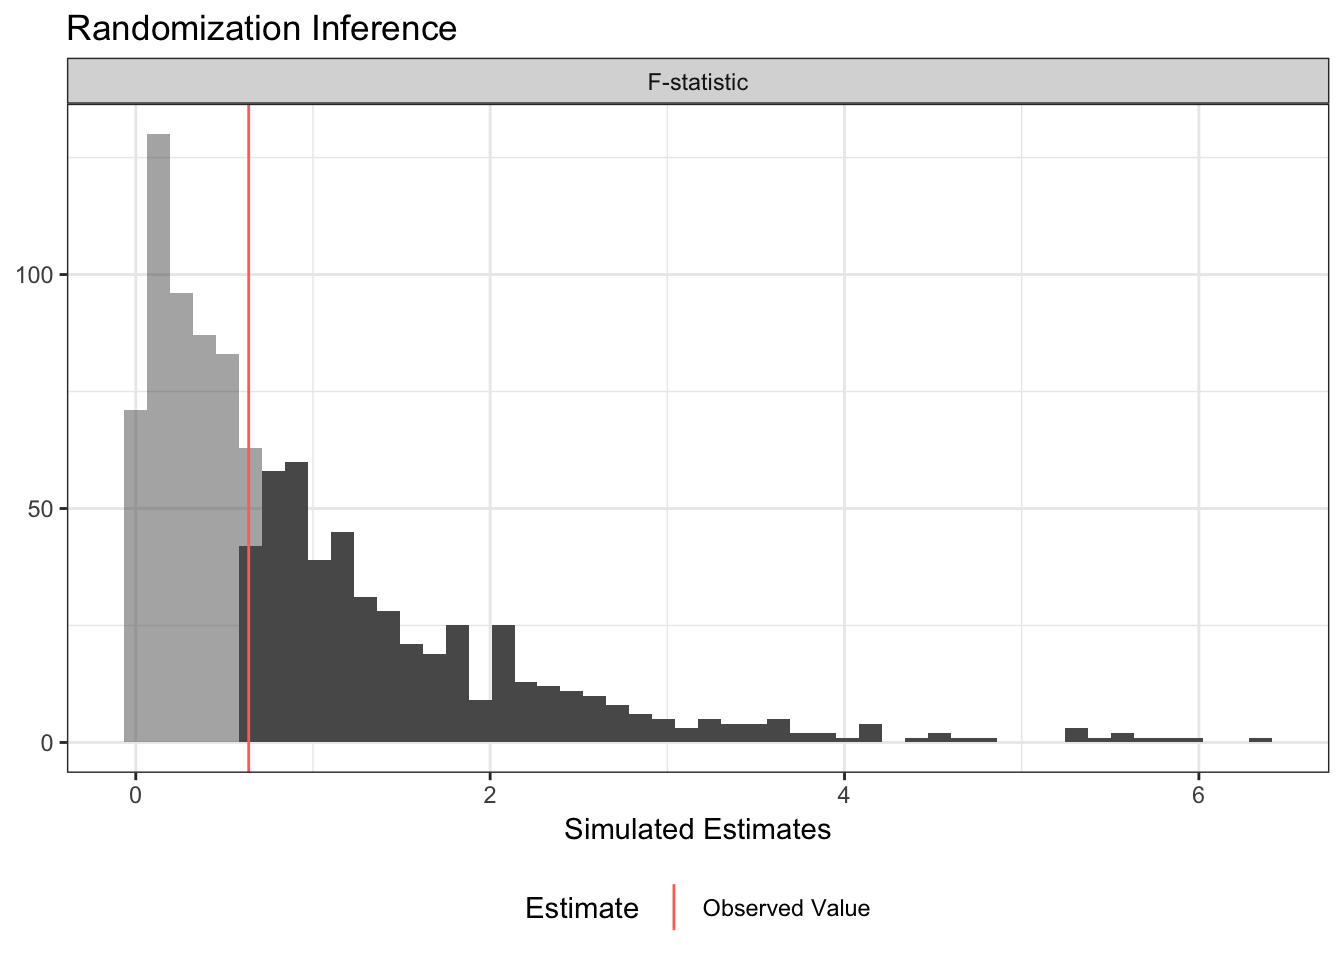
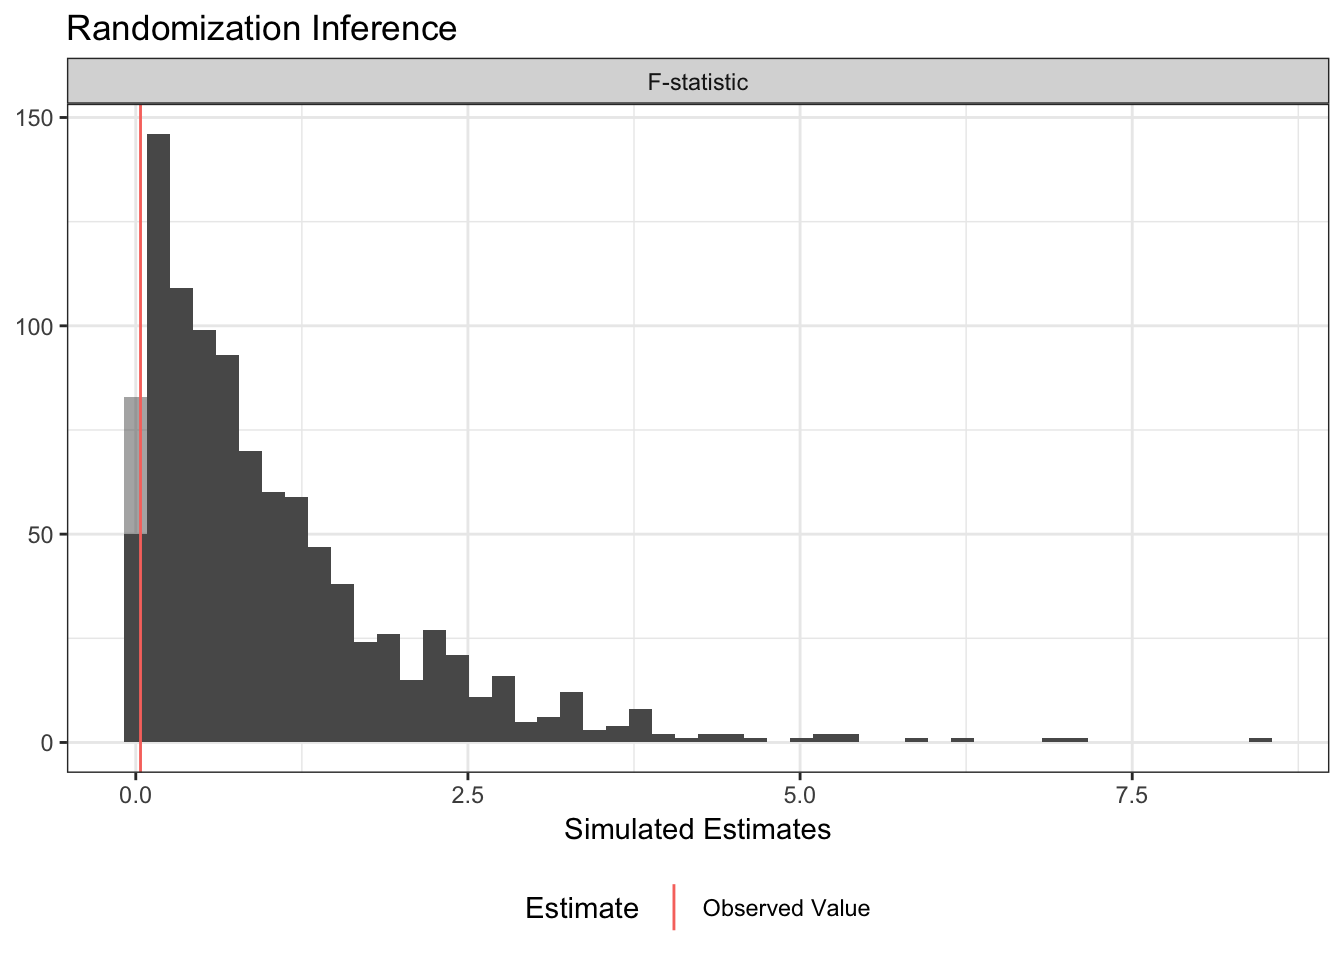
CRAN prep

diff --git a/docs/articles/ri2_vignette.html b/docs/articles/ri2_vignette.html
@@ -68,7 +68,7 @@
       <h1>Randomization Inference with ri2</h1>
                         <h4 class="author">Alexander Coppock, Yale University</h4>
             
-            <h4 class="date">2017-08-28</h4>
+            <h4 class="date">2017-09-14</h4>
           </div>
 
     
@@ -208,9 +208,9 @@ ri2_out &lt;-
 <p><img src="ri2_vignette_files/figure-html/unnamed-chunk-4-1.png" width="672"></p>
 <div class="sourceCode"><pre class="sourceCode r"><code class="sourceCode r"><span class="kw">summary</span>(ri2_out)</code></pre></div>
 <pre><code>## # A tibble: 1 x 5
-##   coefficient  estimate p_value null_ci_lower null_ci_upper
-##        &lt;fctr&gt;     &lt;dbl&gt;   &lt;dbl&gt;         &lt;dbl&gt;         &lt;dbl&gt;
-## 1 F-statistic 0.6374479   0.512     0.0262509       3.65659</code></pre>
+##   coefficient   estimate p_value null_ci_lower null_ci_upper
+##        &lt;fctr&gt;      &lt;dbl&gt;   &lt;dbl&gt;         &lt;dbl&gt;         &lt;dbl&gt;
+## 1 F-statistic 0.03575746   0.967    0.03115186      3.777025</code></pre>
 <div class="sourceCode"><pre class="sourceCode r"><code class="sourceCode r"><span class="co"># for comparison</span>
 <span class="kw">anova</span>(<span class="kw">lm</span>(Y <span class="op">~</span><span class="st"> </span><span class="dv">1</span>, <span class="dt">data =</span> df), 
       <span class="kw">lm</span>(Y <span class="op">~</span><span class="st"> </span>Z, <span class="dt">data =</span> df))</code></pre></div>
@@ -219,8 +219,8 @@ ri2_out &lt;-
 ## Model 1: Y ~ 1
 ## Model 2: Y ~ Z
 ##   Res.Df    RSS Df Sum of Sq      F Pr(&gt;F)
-## 1     99 108.61                           
-## 2     97 107.20  2     1.409 0.6374 0.5308</code></pre>
+## 1     99 60.514                           
+## 2     97 60.469  2  0.044582 0.0358 0.9649</code></pre>
 </div>
 <div id="interaction-terms" class="section level2">
 <h2 class="hasAnchor">
@@ -237,8 +237,8 @@ df &lt;-<span class="st"> </span><span class="kw">data.frame</span>(X, Y, Z)
 <span class="co"># Observed ATE</span>
 ate_hat &lt;-<span class="st"> </span><span class="kw">coef</span>(<span class="kw">lm</span>(Y <span class="op">~</span><span class="st"> </span>Z, <span class="dt">data =</span> df))[<span class="dv">2</span>]
 ate_hat</code></pre></div>
-<pre><code>##         Z 
-## 0.3362066</code></pre>
+<pre><code>##          Z 
+## 0.06309207</code></pre>
 <div class="sourceCode"><pre class="sourceCode r"><code class="sourceCode r">ri2_out &lt;-
 <span class="st">  </span><span class="kw"><a href="../reference/conduct_ri.html">conduct_ri</a></span>(
     <span class="dt">model_1 =</span> Y <span class="op">~</span><span class="st"> </span>Z <span class="op">+</span><span class="st"> </span>X, <span class="co"># restricted model</span>
@@ -254,7 +254,7 @@ ate_hat</code></pre></div>
 <pre><code>## # A tibble: 1 x 5
 ##   coefficient estimate p_value null_ci_lower null_ci_upper
 ##        &lt;fctr&gt;    &lt;dbl&gt;   &lt;dbl&gt;         &lt;dbl&gt;         &lt;dbl&gt;
-## 1 F-statistic  6.71081   0.026  0.0006255895      6.776974</code></pre>
+## 1 F-statistic 6.088812   0.052   0.002238011      8.785482</code></pre>
 <div class="sourceCode"><pre class="sourceCode r"><code class="sourceCode r"><span class="co"># for comparison</span>
 <span class="kw">anova</span>(<span class="kw">lm</span>(Y <span class="op">~</span><span class="st"> </span>Z <span class="op">+</span><span class="st"> </span>X, <span class="dt">data =</span> df),
       <span class="kw">lm</span>(Y <span class="op">~</span><span class="st"> </span>Z <span class="op">+</span><span class="st"> </span>X <span class="op">+</span><span class="st"> </span>Z<span class="op">*</span>X, <span class="dt">data =</span> df))</code></pre></div>
@@ -262,9 +262,9 @@ ate_hat</code></pre></div>
 ## 
 ## Model 1: Y ~ Z + X
 ## Model 2: Y ~ Z + X + Z * X
-##   Res.Df    RSS Df Sum of Sq      F  Pr(&gt;F)  
-## 1     97 89.579                              
-## 2     96 83.726  1    5.8528 6.7108 0.01108 *
+##   Res.Df     RSS Df Sum of Sq      F  Pr(&gt;F)  
+## 1     97 104.126                              
+## 2     96  97.915  1    6.2103 6.0888 0.01537 *
 ## ---
 ## Signif. codes:  0 '***' 0.001 '**' 0.01 '*' 0.05 '.' 0.1 ' ' 1</code></pre>
 </div>
@@ -291,7 +291,7 @@ test_fun &lt;-<span class="st"> </span><span class="cf">function</span>(data) {
 
 <span class="co"># confirm it works</span>
 <span class="kw">test_fun</span>(df)</code></pre></div>
-<pre><code>## [1] 0.2092878</code></pre>
+<pre><code>## [1] 0.2327424</code></pre>
 <div class="sourceCode"><pre class="sourceCode r"><code class="sourceCode r">ri2_out &lt;-
 <span class="kw"><a href="../reference/conduct_ri.html">conduct_ri</a></span>(
   <span class="dt">test_function =</span> test_fun,
@@ -308,7 +308,7 @@ test_fun &lt;-<span class="st"> </span><span class="cf">function</span>(data) {
 <pre><code>## # A tibble: 1 x 5
 ##             coefficient  estimate p_value null_ci_lower null_ci_upper
 ##                  &lt;fctr&gt;     &lt;dbl&gt;   &lt;dbl&gt;         &lt;dbl&gt;         &lt;dbl&gt;
-## 1 Custom Test Statistic 0.2092878       0     -0.117856     0.1144246</code></pre>
+## 1 Custom Test Statistic 0.2327424       0     -0.110723     0.1126451</code></pre>
 </div>
 <div id="balance-test" class="section level2">
 <h2 class="hasAnchor">
@@ -332,8 +332,8 @@ balance_fun &lt;-<span class="st"> </span><span class="cf">function</span>(data)
 
 <span class="co"># Confirm it works!</span>
 <span class="kw">balance_fun</span>(df)</code></pre></div>
-<pre><code>##    value 
-## 1.376454</code></pre>
+<pre><code>##     value 
+## 0.3701178</code></pre>
 <div class="sourceCode"><pre class="sourceCode r"><code class="sourceCode r">ri2_out &lt;-
 <span class="st">  </span><span class="kw"><a href="../reference/conduct_ri.html">conduct_ri</a></span>(
   <span class="dt">test_function =</span> balance_fun,
@@ -348,9 +348,9 @@ balance_fun &lt;-<span class="st"> </span><span class="cf">function</span>(data)
 <p><img src="ri2_vignette_files/figure-html/unnamed-chunk-7-1.png" width="672"></p>
 <div class="sourceCode"><pre class="sourceCode r"><code class="sourceCode r"><span class="kw">summary</span>(ri2_out)</code></pre></div>
 <pre><code>## # A tibble: 1 x 5
-##             coefficient estimate p_value null_ci_lower null_ci_upper
-##                  &lt;fctr&gt;    &lt;dbl&gt;   &lt;dbl&gt;         &lt;dbl&gt;         &lt;dbl&gt;
-## 1 Custom Test Statistic 1.376454   0.281    0.09788095      3.694031</code></pre>
+##             coefficient  estimate p_value null_ci_lower null_ci_upper
+##                  &lt;fctr&gt;     &lt;dbl&gt;   &lt;dbl&gt;         &lt;dbl&gt;         &lt;dbl&gt;
+## 1 Custom Test Statistic 0.3701178   0.774    0.07562666      3.485668</code></pre>
 <div class="sourceCode"><pre class="sourceCode r"><code class="sourceCode r"><span class="co"># For comparison</span>
 <span class="kw">summary</span>(<span class="kw">lm</span>(Z <span class="op">~</span><span class="st"> </span>X1 <span class="op">+</span><span class="st"> </span>X2 <span class="op">+</span><span class="st"> </span>X3, <span class="dt">data =</span> df))</code></pre></div>
 <pre><code>## 
@@ -359,20 +359,20 @@ balance_fun &lt;-<span class="st"> </span><span class="cf">function</span>(data)
 ## 
 ## Residuals:
 ##      Min       1Q   Median       3Q      Max 
-## -0.69528 -0.47769 -0.06934  0.47862  0.71365 
+## -0.58420 -0.47716  0.00748  0.47023  0.58331 
 ## 
 ## Coefficients:
-##             Estimate Std. Error t value Pr(&gt;|t|)    
-## (Intercept)  0.37402    0.10614   3.524 0.000653 ***
-## X1          -0.06130    0.04435  -1.382 0.170127    
-## X2          -0.01182    0.10026  -0.118 0.906401    
-## X3           0.04460    0.02865   1.557 0.122758    
+##              Estimate Std. Error t value Pr(&gt;|t|)    
+## (Intercept)  0.461366   0.114007   4.047 0.000105 ***
+## X1           0.019338   0.053661   0.360 0.719366    
+## X2           0.092797   0.103371   0.898 0.371590    
+## X3          -0.003244   0.028543  -0.114 0.909748    
 ## ---
 ## Signif. codes:  0 '***' 0.001 '**' 0.01 '*' 0.05 '.' 0.1 ' ' 1
 ## 
-## Residual standard error: 0.4997 on 96 degrees of freedom
-## Multiple R-squared:  0.04124,    Adjusted R-squared:  0.01128 
-## F-statistic: 1.376 on 3 and 96 DF,  p-value: 0.2546</code></pre>
+## Residual standard error: 0.5074 on 96 degrees of freedom
+## Multiple R-squared:  0.01143,    Adjusted R-squared:  -0.01946 
+## F-statistic: 0.3701 on 3 and 96 DF,  p-value: 0.7747</code></pre>
 </div>
 </div>
 <div id="conclusion" class="section level1">

diff --git a/docs/index.html b/docs/index.html
@@ -83,13 +83,10 @@
 <li>Accommodation for arbitrary randomization schemes</li>
 <li>Accommodation for arbitrary (scalar) test statistics</li>
 </ol>
-<p>If you’d like to install the most current development release, you can do so using the <code>devtools</code> package. Since there’s some <code>Rcpp</code> in <code>ri2</code>, you’ll need some development tools as described on the <a href="https://www.rstudio.com/products/rpackages/devtools/">devtools page</a>.</p>
-<ul>
-<li>on a Mac, you have to first install Xcode (from the app store is easiest!)</li>
-<li>on Windows, install <code>Rtools</code> with <code>install.packages("Rtools")</code>.</li>
-</ul>
-<p>Then use the following code:</p>
-<div class="sourceCode"><pre class="sourceCode r"><code class="sourceCode r"><span class="kw">install.packages</span>(<span class="st">"devtools"</span>)
+<p>If you’d like to install the most current development release, you can use the following code:</p>
+<div class="sourceCode"><pre class="sourceCode r"><code class="sourceCode r"><span class="kw">install.packages</span>(<span class="st">"estimatr"</span>, <span class="dt">dependencies =</span> <span class="ot">TRUE</span>,
+  <span class="dt">repos =</span> <span class="kw">c</span>(<span class="st">"http://install.declaredesign.org"</span>, <span class="st">"https://cloud.r-project.org"</span>))
+<span class="kw">install.packages</span>(<span class="st">"devtools"</span>)
 devtools<span class="op">::</span><span class="kw"><a href="http://www.rdocumentation.org/packages/devtools/topics/install_github">install_github</a></span>(<span class="st">"DeclareDesign/randomizr"</span>)
 devtools<span class="op">::</span><span class="kw"><a href="http://www.rdocumentation.org/packages/devtools/topics/install_github">install_github</a></span>(<span class="st">"acoppock/ri2"</span>)</code></pre></div>
 <p>Here is the basic syntax for a two-arm trial:</p>
@@ -117,9 +114,9 @@ ri_out &lt;-
 <p><img src="README-unnamed-chunk-3-1.png" width="672"></p>
 <div class="sourceCode"><pre class="sourceCode r"><code class="sourceCode r"><span class="kw">summary</span>(ri_out)
 <span class="co">#&gt; # A tibble: 1 x 5</span>
-<span class="co">#&gt;   coefficient estimate p_value null_ci_lower null_ci_upper</span>
-<span class="co">#&gt;         &lt;chr&gt;    &lt;dbl&gt;   &lt;dbl&gt;         &lt;dbl&gt;         &lt;dbl&gt;</span>
-<span class="co">#&gt; 1           Z 0.524235   0.049    -0.5185801     0.5250169</span></code></pre></div>
+<span class="co">#&gt;   coefficient  estimate p_value null_ci_lower null_ci_upper</span>
+<span class="co">#&gt;         &lt;chr&gt;     &lt;dbl&gt;   &lt;dbl&gt;         &lt;dbl&gt;         &lt;dbl&gt;</span>
+<span class="co">#&gt; 1           Z 0.2100802   0.468    -0.5585896     0.5440098</span></code></pre></div>
 <p>The development of ri2 is supported by a Standards Grant from <a href="http://egap.org">EGAP</a>.</p>
 </div>
   </div>

diff --git a/docs/articles/ri2_vs_ri.html b/docs/articles/ri2_vs_ri.html
@@ -68,7 +68,7 @@
       <h1>Comparing ri and ri2</h1>
                         <h4 class="author">Alexander Coppock, Yale University</h4>
             
-            <h4 class="date">2017-08-28</h4>
+            <h4 class="date">2017-09-14</h4>
           </div>
 
     

diff --git a/README.md b/README.md
@@ -14,14 +14,11 @@ Additionally, ri2 provides:
 1.  Accommodation for arbitrary randomization schemes
 2.  Accommodation for arbitrary (scalar) test statistics
 
-If you'd like to install the most current development release, you can do so using the `devtools` package. Since there's some `Rcpp` in `ri2`, you'll need some development tools as described on the [devtools page](https://www.rstudio.com/products/rpackages/devtools/).
-
--   on a Mac, you have to first install Xcode (from the app store is easiest!)
--   on Windows, install `Rtools` with `install.packages("Rtools")`.
-
-Then use the following code:
+If you'd like to install the most current development release, you can use the following code:
 
 ``` r
+install.packages("estimatr", dependencies = TRUE,
+  repos = c("http://install.declaredesign.org", "https://cloud.r-project.org"))
 install.packages("devtools")
 devtools::install_github("DeclareDesign/randomizr")
 devtools::install_github("acoppock/ri2")
@@ -60,7 +57,7 @@ summary(ri_out)
 #> # A tibble: 1 x 5
 #>   coefficient    estimate p_value null_ci_lower null_ci_upper
 #>         <chr>       <dbl>   <dbl>         <dbl>         <dbl>
-#> 1           Z -0.02348029   0.936    -0.6029264     0.5557554
+#> 1           Z -0.07039904   0.776     -0.492874      0.481103
 ```
 
 The development of ri2 is supported by a Standards Grant from [EGAP](http://egap.org).
